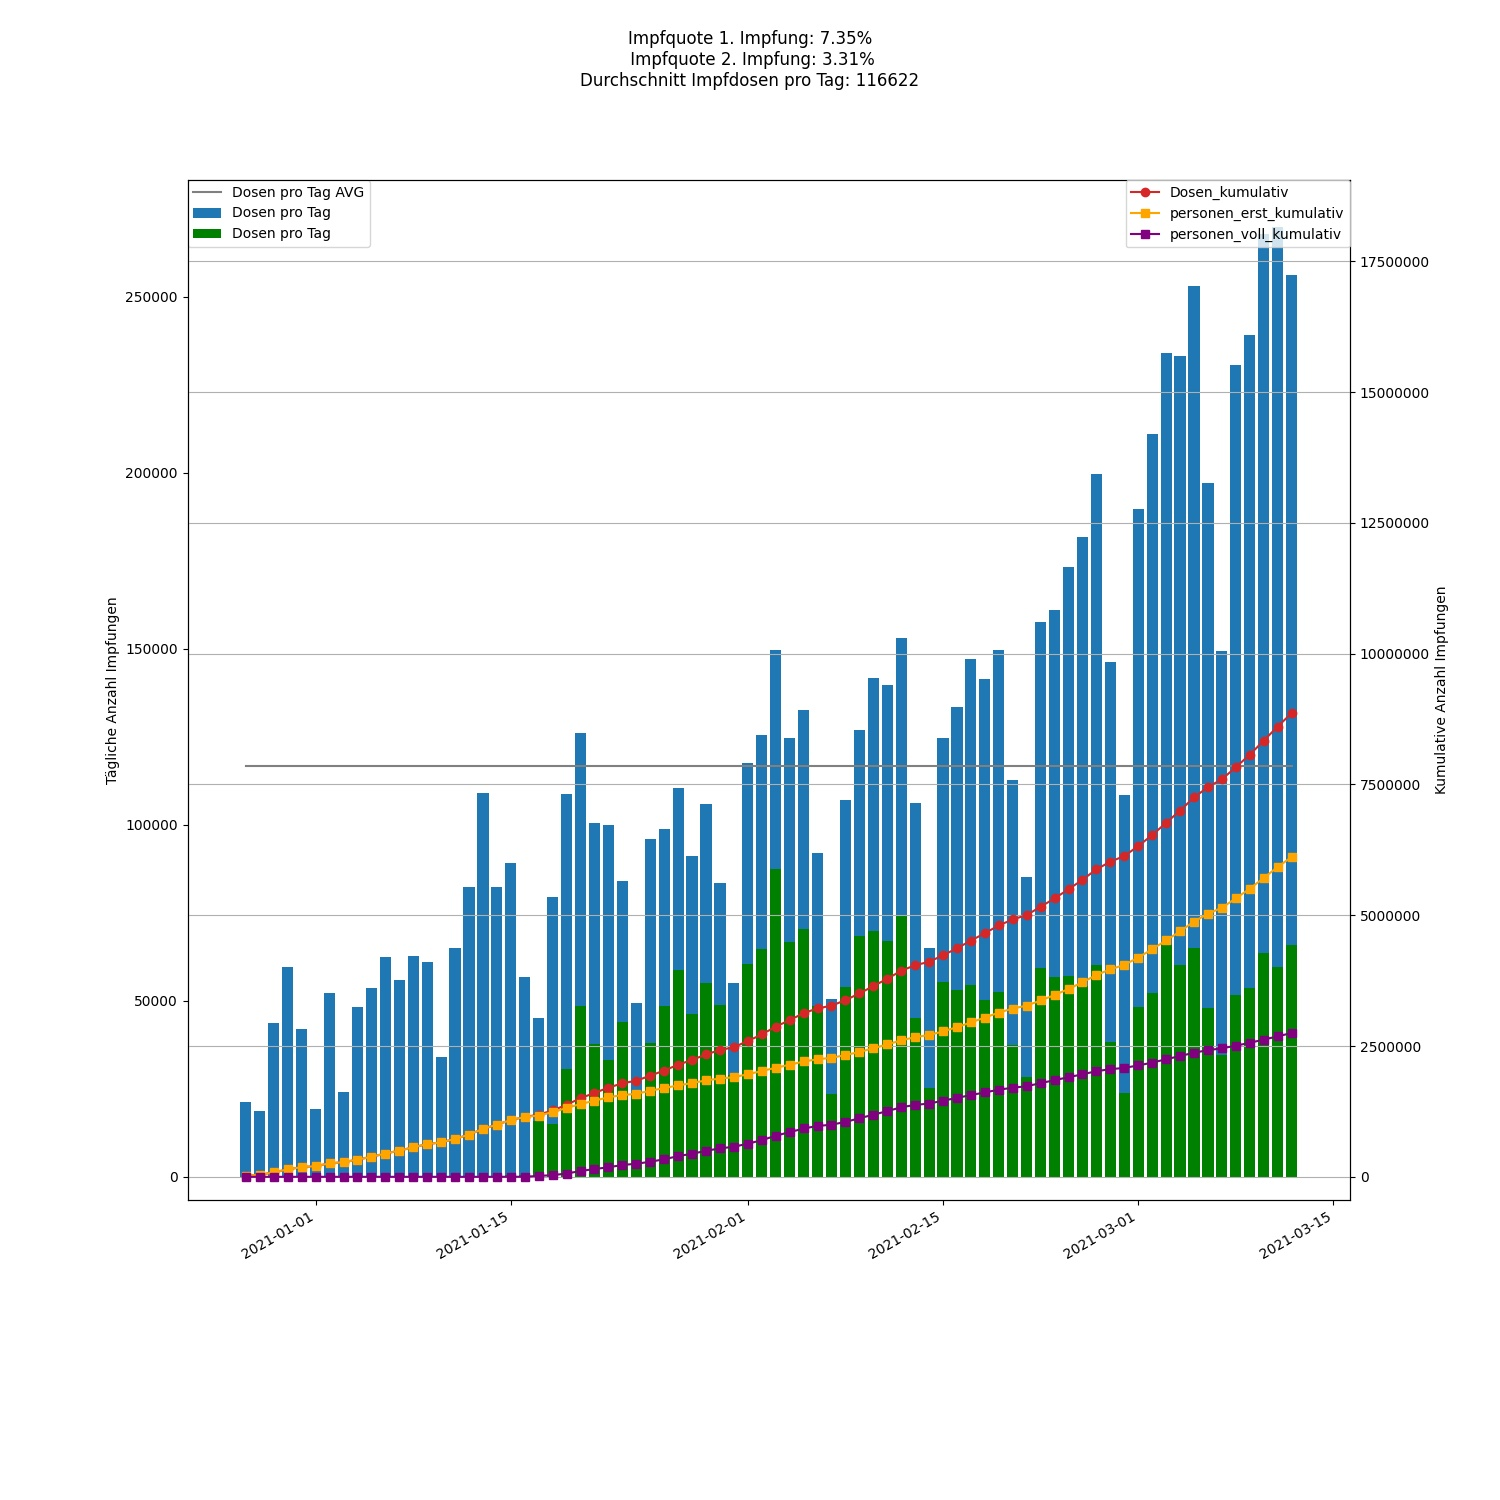
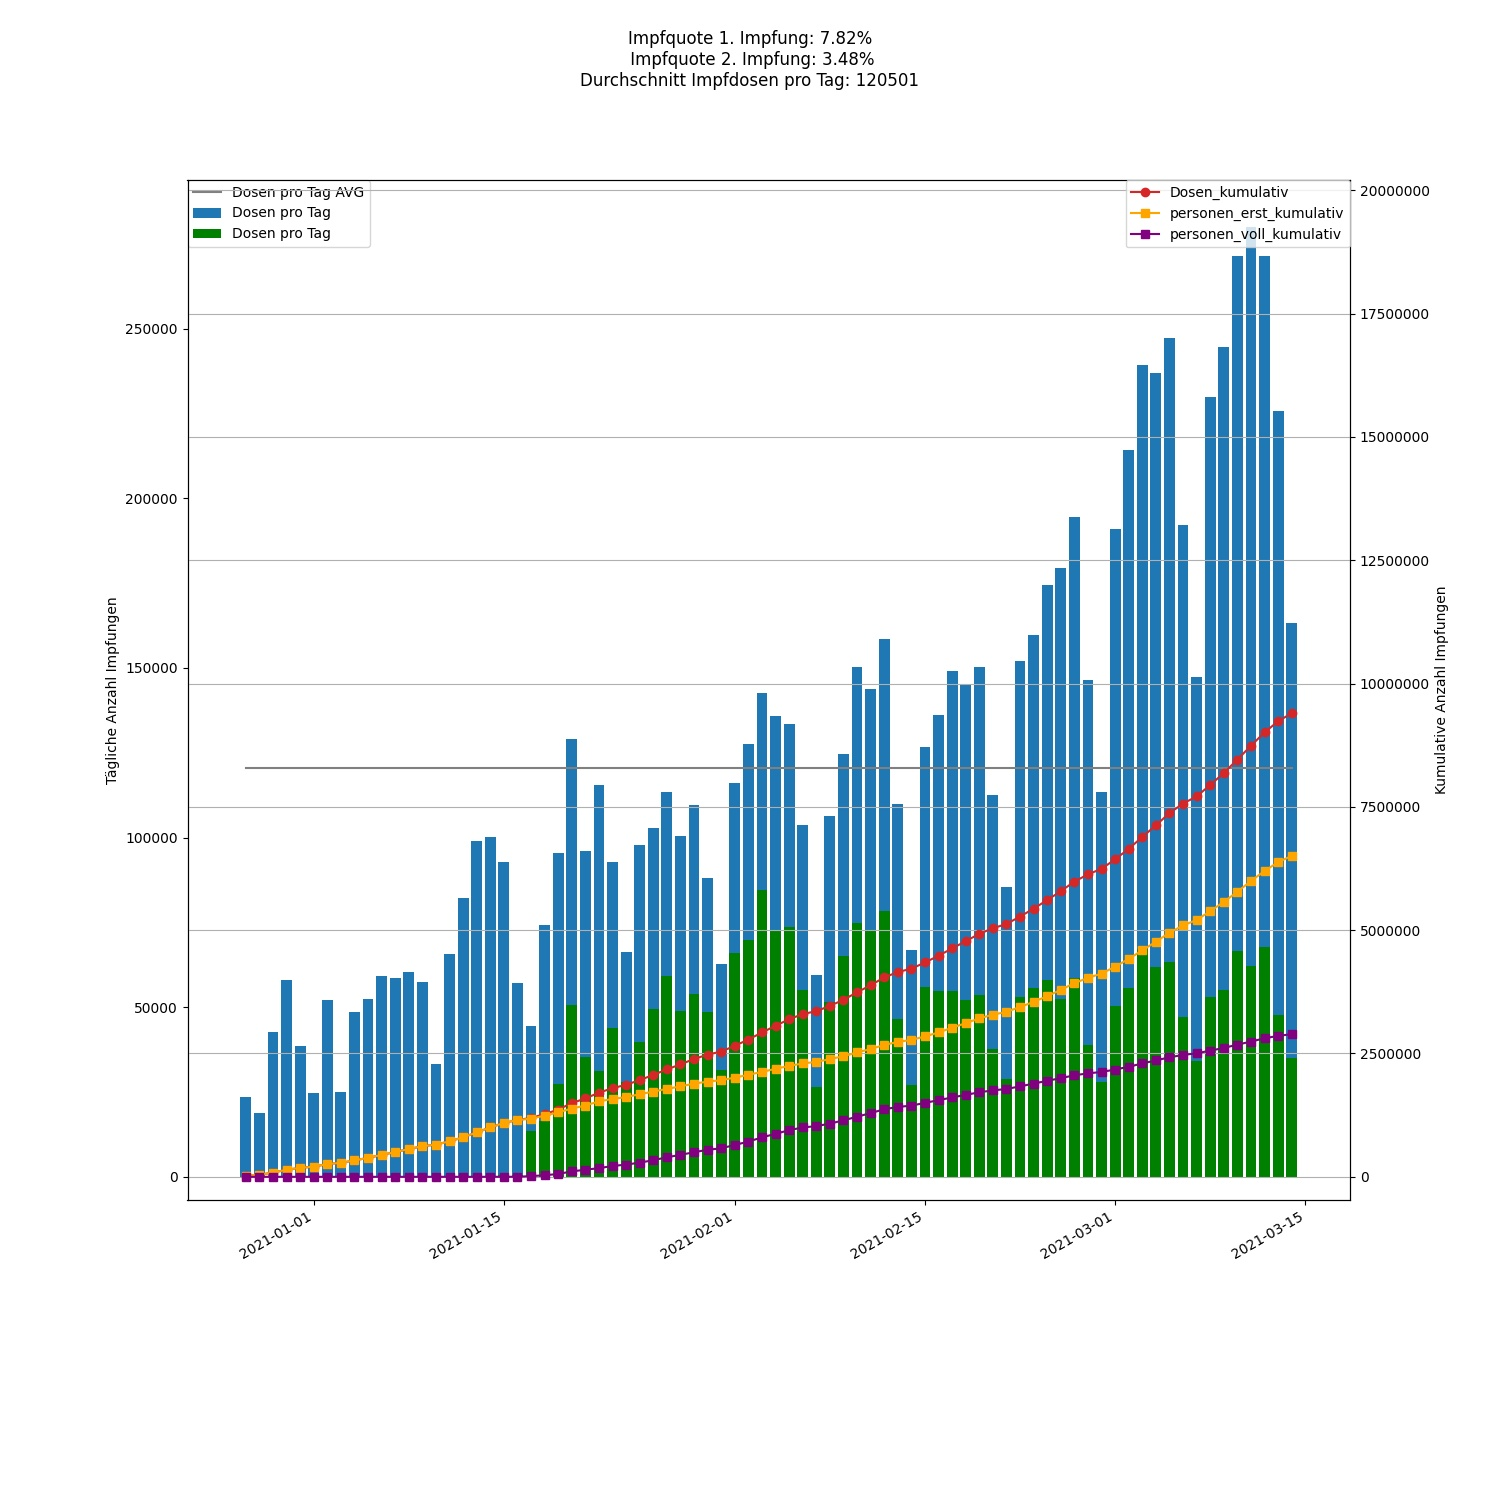
Crontab commit

diff --git a/Readme.md b/Readme.md
@@ -1,19 +1,19 @@
-# Corona vaccine Germany - Stand 2021-03-12
+# Corona vaccine Germany - Stand 2021-03-14
 ## Dashboard by [Simon Hamacher](https://www.shamacher.eu)
 ## Impfstoffe Übersicht
 **Impfstoffhersteller** | **verimpfte Dosen**
 -------- | :--------:
-Biontech | 7093082
-Moderna | 298788
-Astrazeneca | 1471400
+Biontech | 7437223
+Moderna | 314160
+Astrazeneca | 1647727
 
 
 ## Quoten
-**Total Verimpfte Dosen:** | 8863270
+**Total Verimpfte Dosen:** | 9399110
 -------- | :--------:
-**Erst-Impfquote** | 7.35 %
-**Voll-Impfquote** | 3.31 %
-**Imfungen Durchschnitt** | 116621.97 pro Tag
+**Erst-Impfquote** | 7.82 %
+**Voll-Impfquote** | 3.48 %
+**Imfungen Durchschnitt** | 120501.41 pro Tag
 ## Graphen
 <img src="Impfungen-Corona-01.jpg" alt="Corona-1" title="optionaler Titel" />
 <img src="Impfungen-Corona-02.jpg" alt="Corona-2" title="optionaler Titel" />
